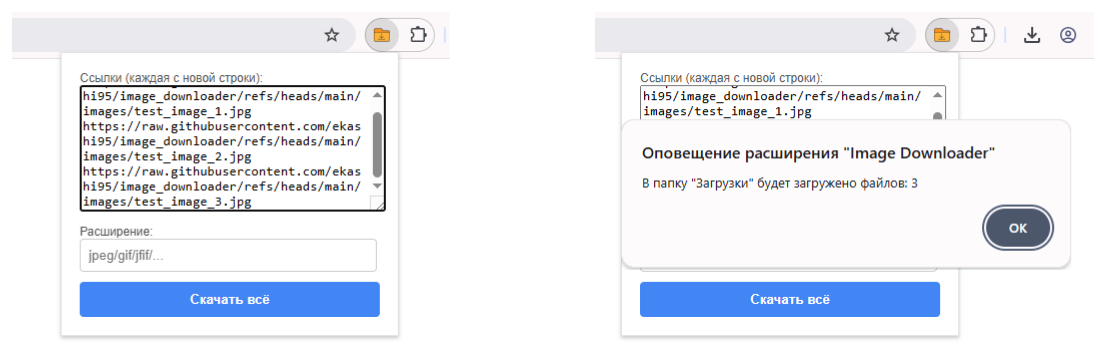
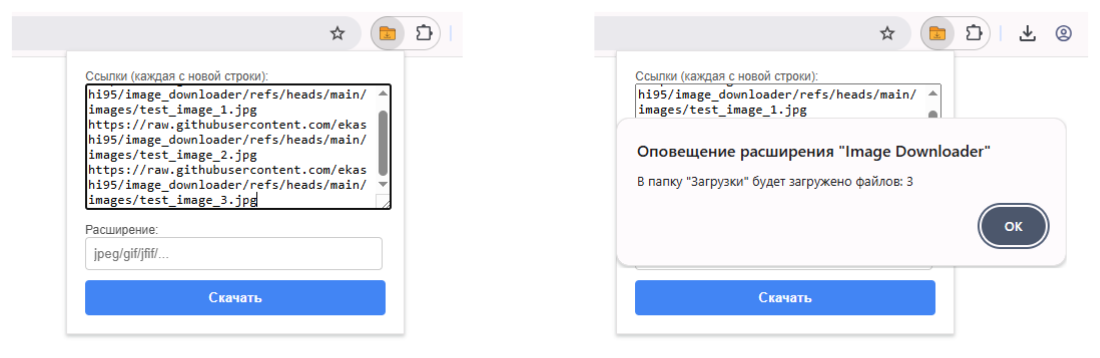
modified

diff --git a/README.md b/README.md
@@ -22,7 +22,7 @@
 2. Вставьте список прямых ссылок на изображения (каждая ссылка с новой строки).
 3. Если прямые ссылки не содержат расширения изображений (такое редко, но бывает), то укажите его вручную. 
 4. Нажмите кнопку **Скачать**.
-5. В открывшемся всплывающем окне с предупреждением о числе скачиваемых файлов нажмите **ОК**. 
+5. Появится всплывающее окно с предупреждением о числе скачиваемых файлов. Нажмите **ОК**. 
 
 <p align="center">
   <img src="/images/screenshot_2.png" height="200" alt="screenshot_2.png">
@@ -30,7 +30,7 @@
 
 Файлы будут загружены в папку "Downloads" с именами формата `image_001.jpg`, `image_002.jpg` и т. д. 
 
-Если для доступа к изображению по ссылке необходима авторизация, то авторизуйтесь перед использованием расширения. 
+Если для доступа к изображению по ссылке необходима авторизация, то авторизуйтесь перед использованием расширения.
 
 ## Пример
 